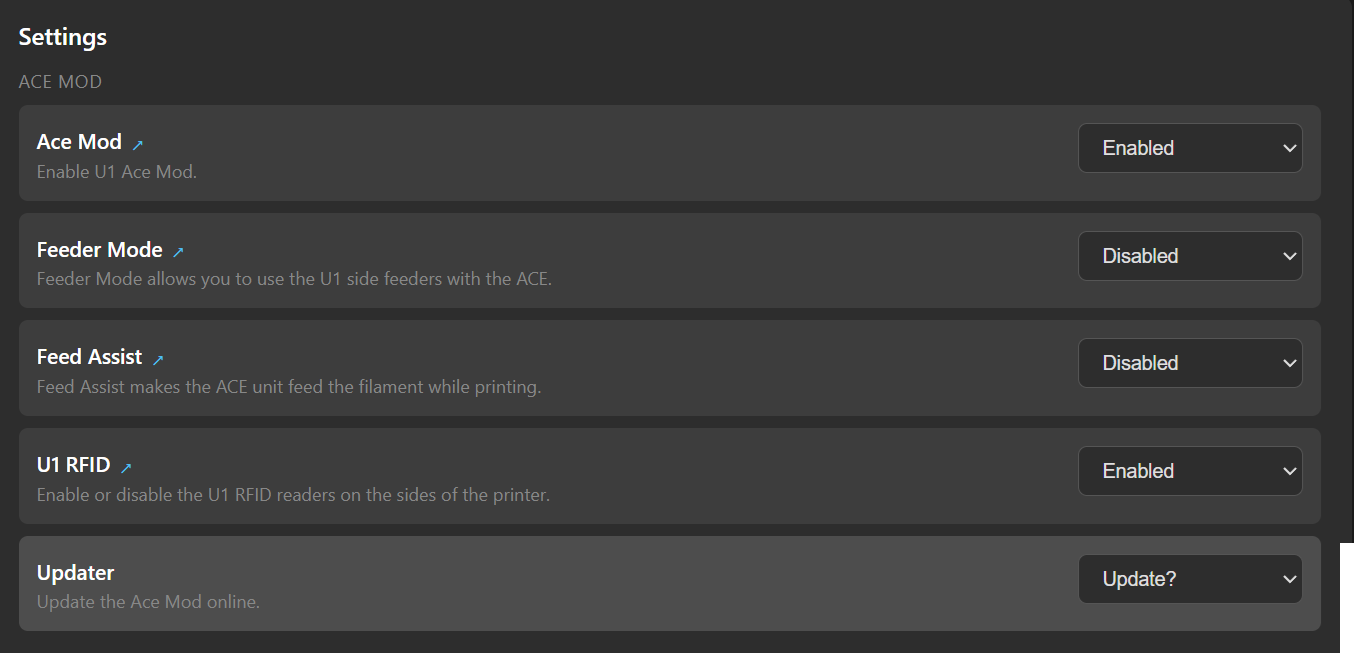
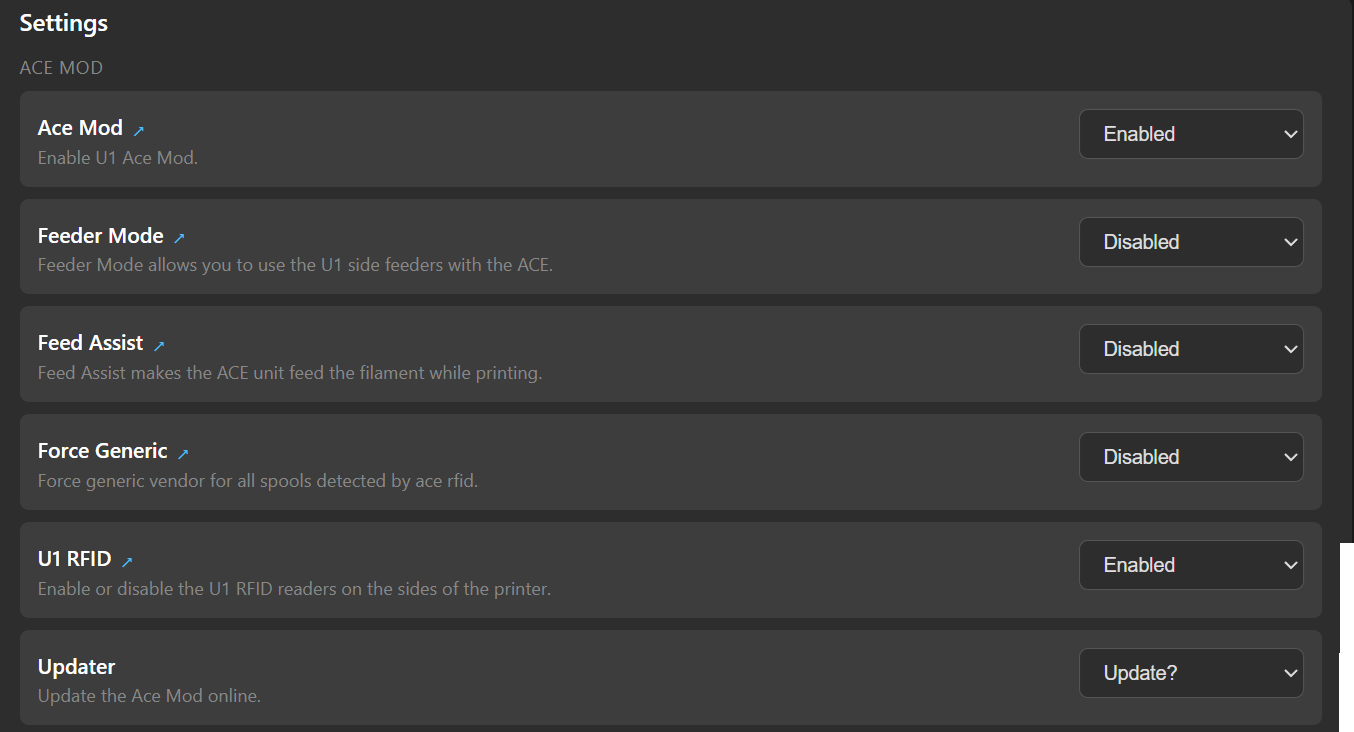
update readme

diff --git a/README.md b/README.md
@@ -91,6 +91,13 @@ disable_u1_rfid: False
 
 
 
+# force generic vendor for all spools detected by rfid.
+# this allows the filament to be selected in snapmaker orca with default generic filaments.
+
+force_generic: False
+
+
+
 # max temp for dryer
 
 max_dryer_temperature: 55
@@ -128,7 +135,6 @@ retract_length_slot1: 100
 retract_length_slot2: 100
 retract_length_slot3: 100
 retract_length_slot4: 100
-
 ```
 <br><br>
 
